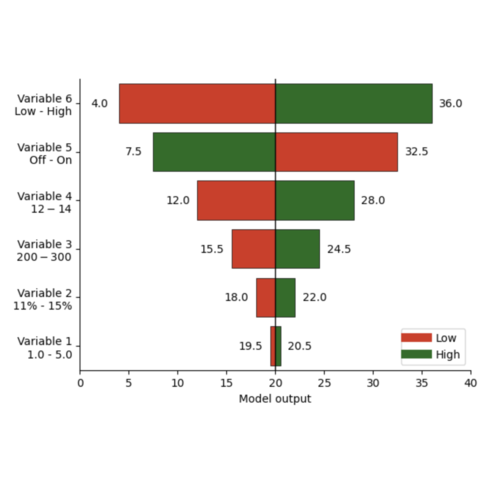
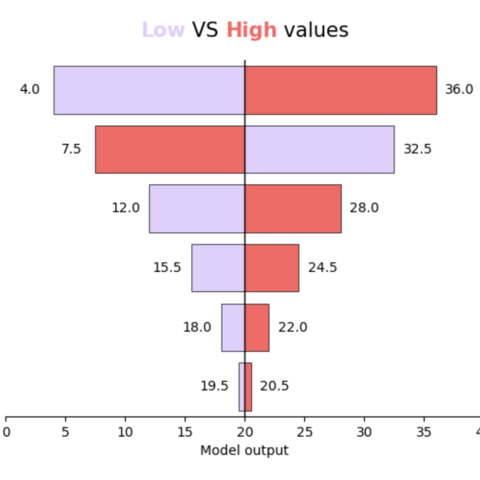
custom tornado chart

diff --git a/src/pages/barplot.js b/src/pages/barplot.js
@@ -411,6 +411,16 @@ export default function Barplot() {
               />
             </Link>
           </Col>
+          <Col xs={12} md={6}>
+            <Link to={'/web-tornado-chart'}>
+              <ChartImage
+                imgName={'web-tornado-chart'}
+                caption={
+                  'Tornado with custom title and colors'
+                }
+              />
+            </Link>
+          </Col>
         </Row>
       </Container>
 
